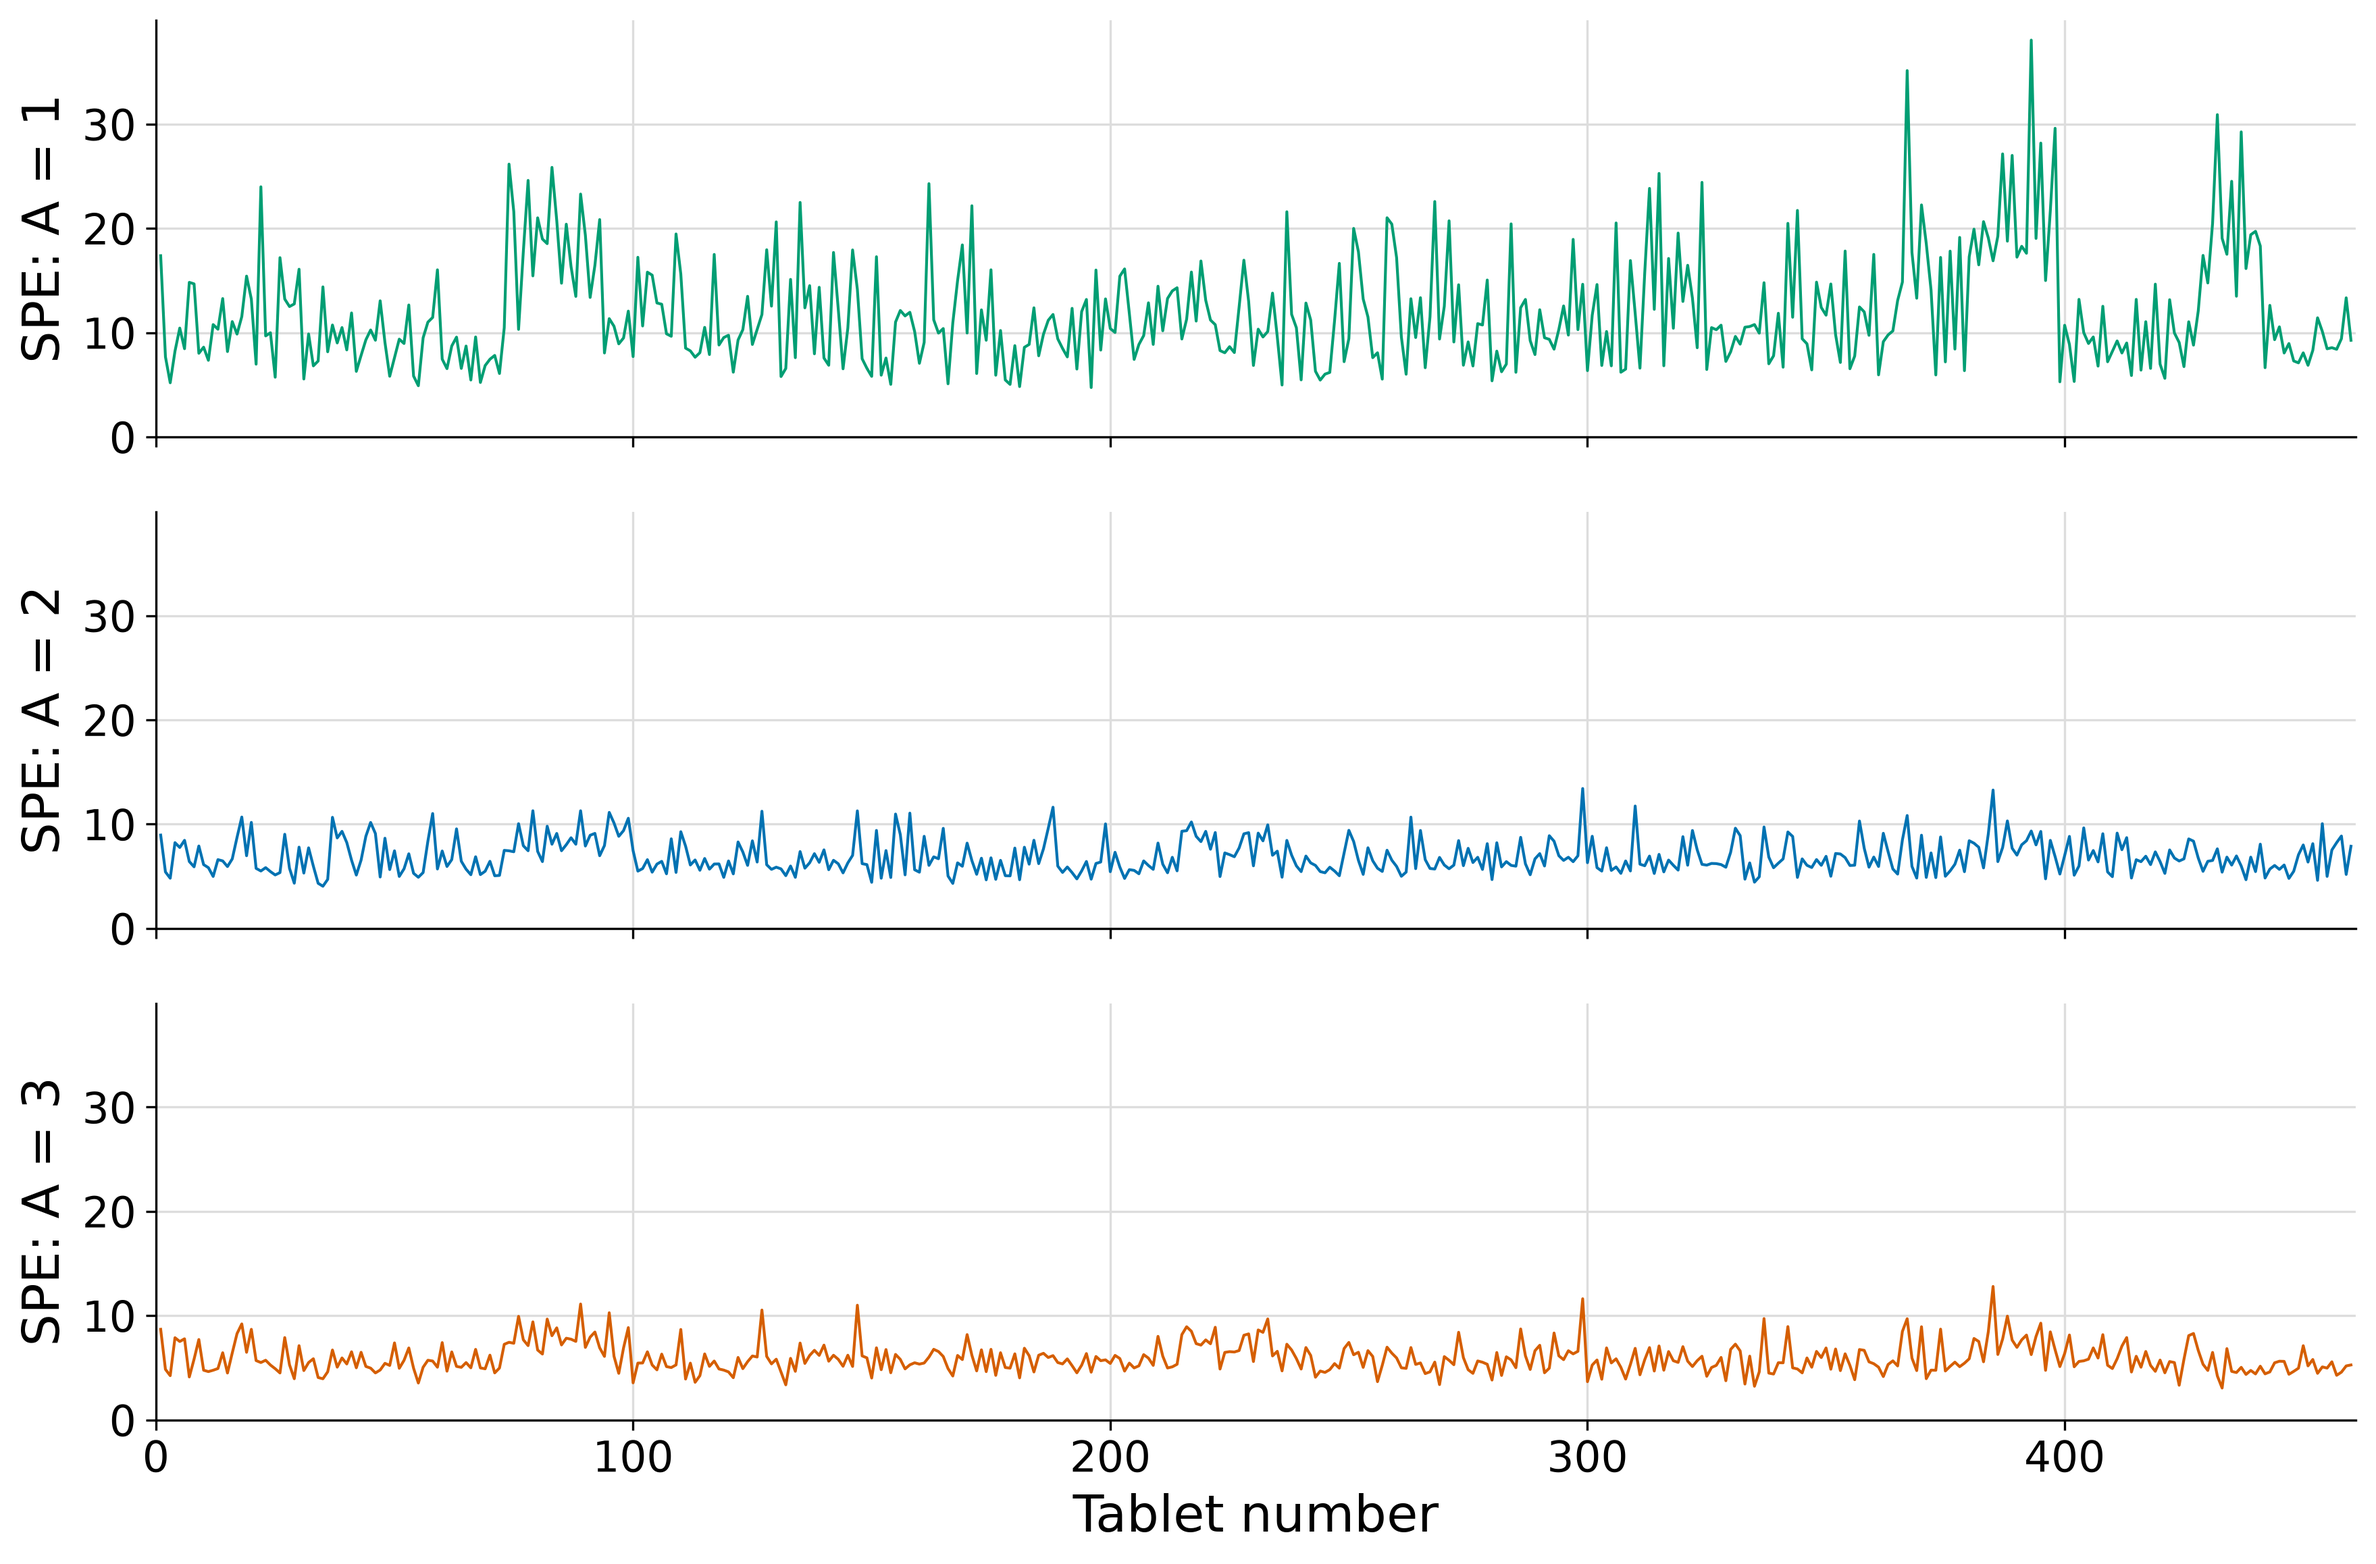
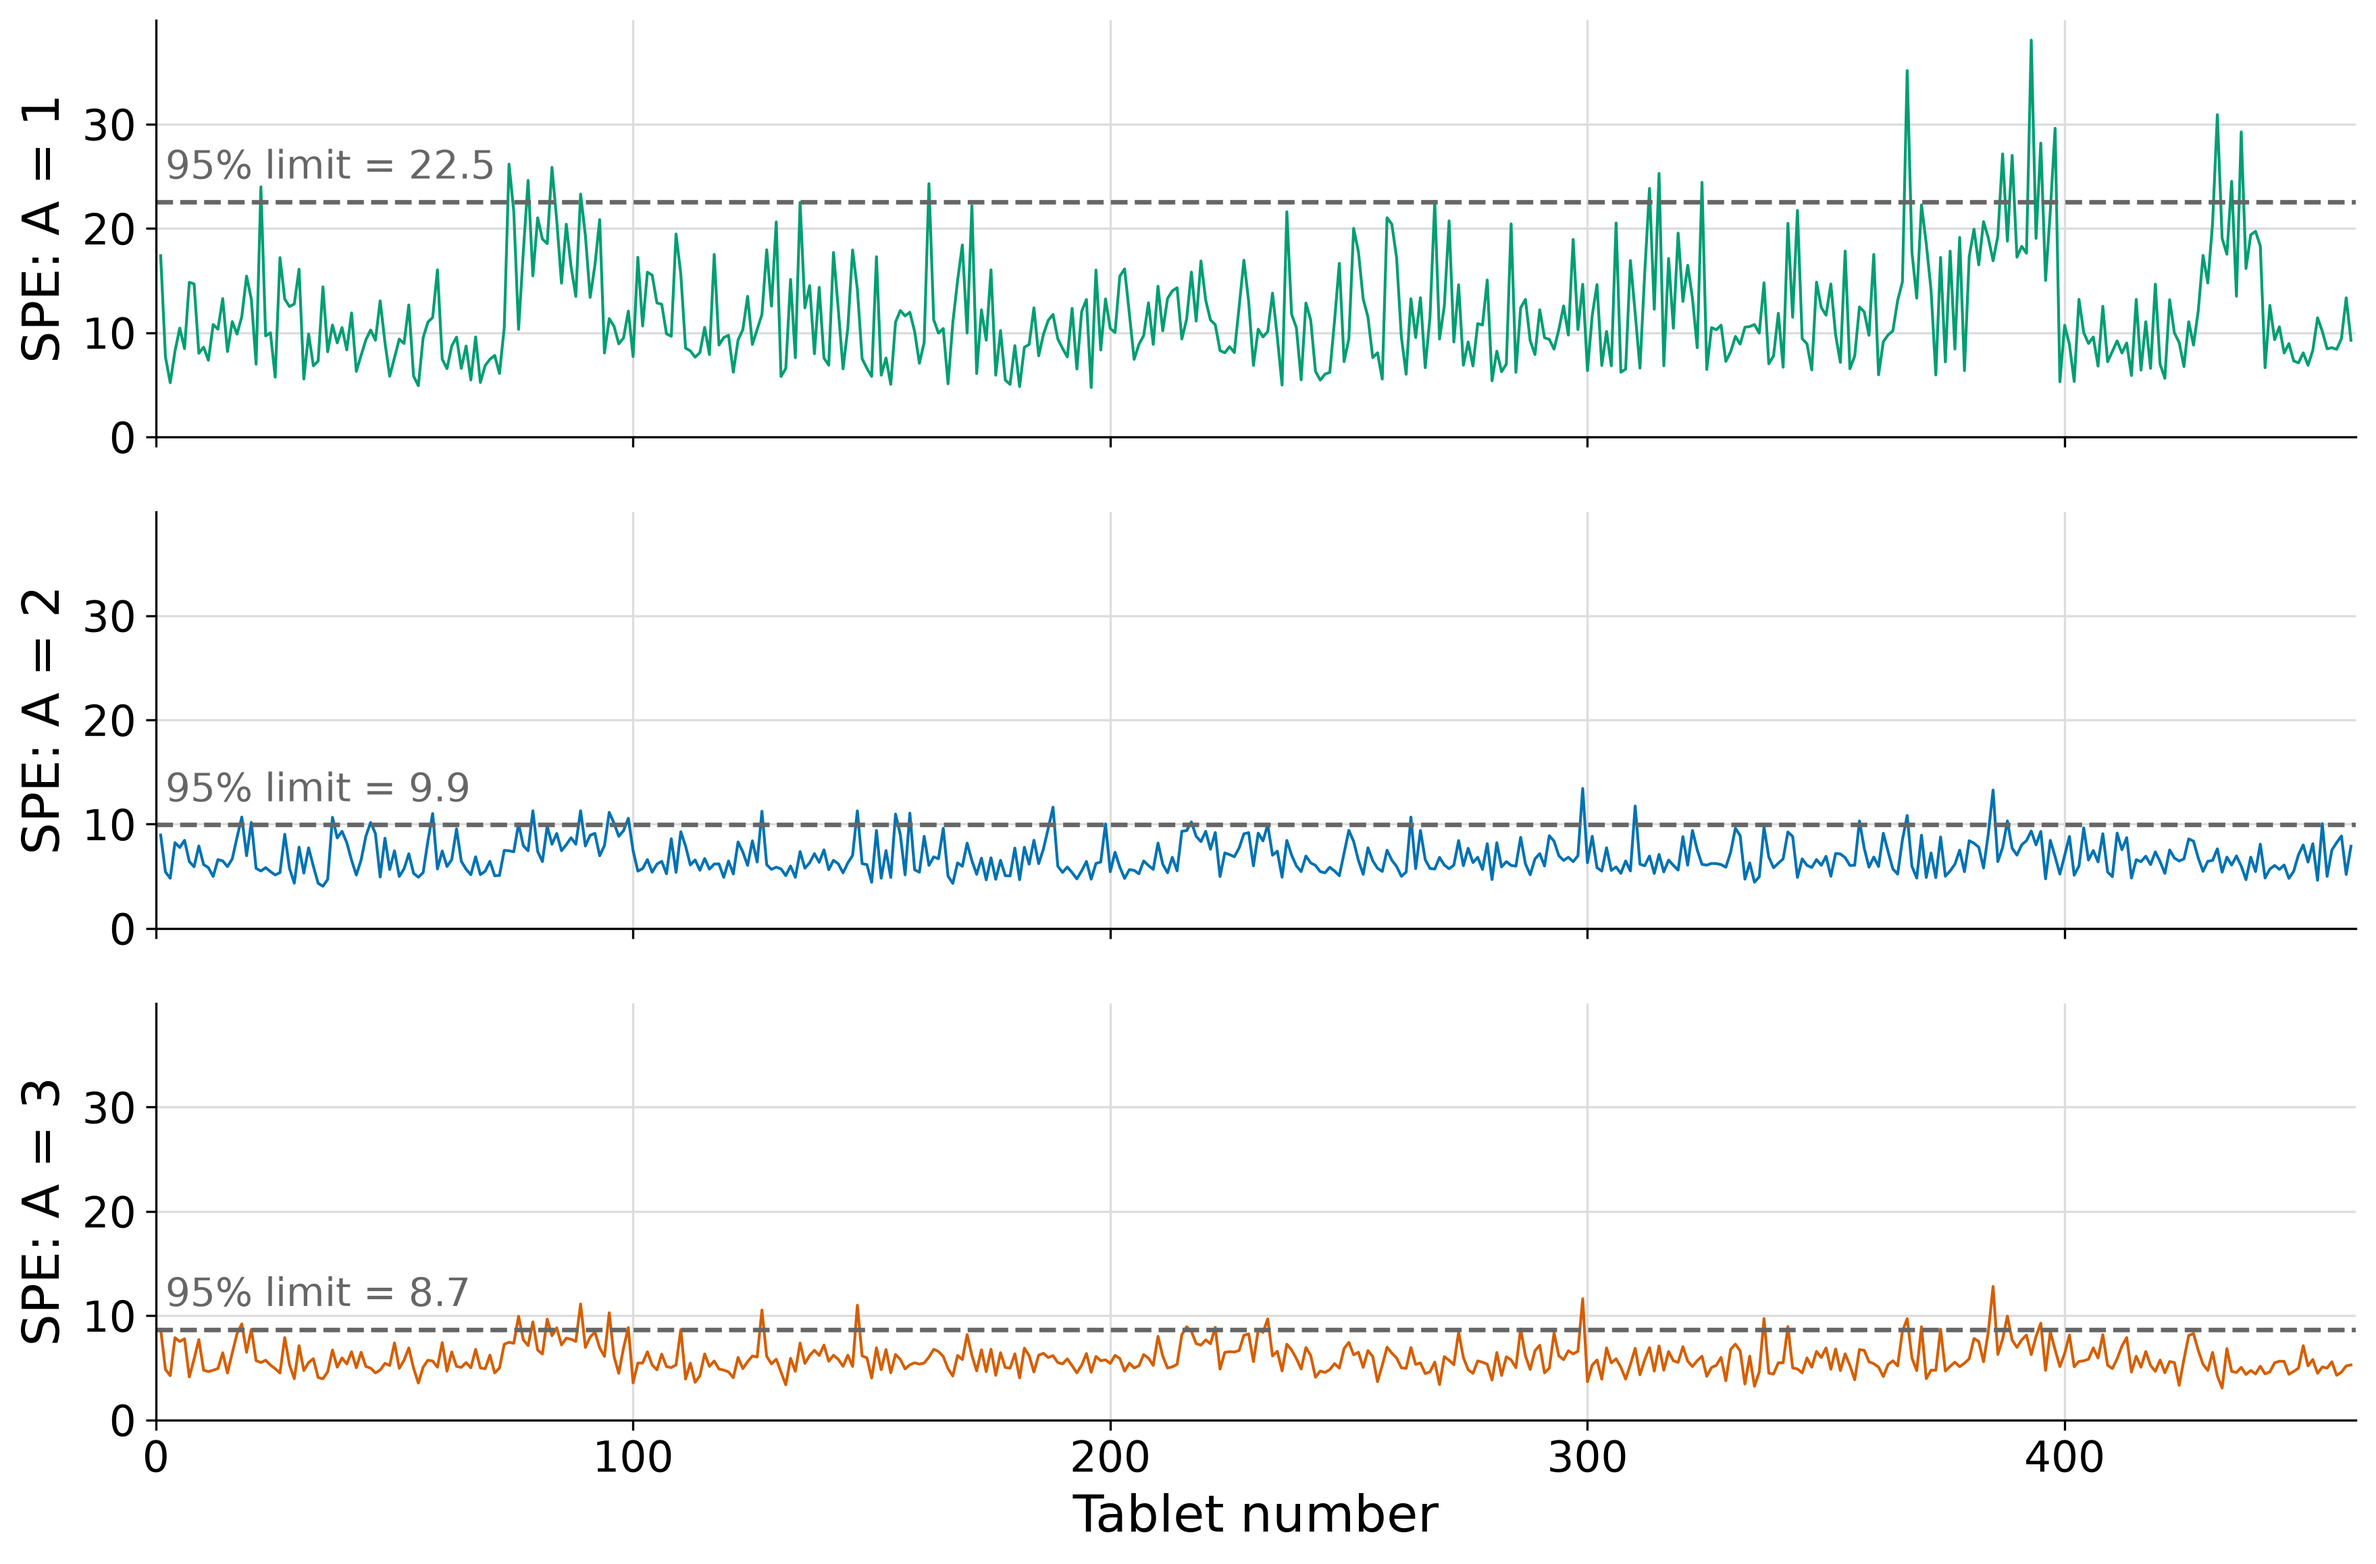
Draw a 95% SPE limit on each tablet-spectra residual panel
The three SPE panels gave the residual distance of every tablet but no
limit to read it against, so a reader could see that the trace drops as
components are added without being able to say which tablets are unusual
at any given model size. The neighbouring T-squared plot already carried
its two limits.

Each panel now carries its own 95% limit, computed from the SPE values
for that number of components by the moment-matched scaled chi-squared of
Nomikos and MacGregor: g * chi2(h) fitted to the mean and variance of the
sums of squares. That is the calculation process_improve uses in
multivariate/_limits.py, repeated here so the script needs only numpy and
scipy. The values are squared going in and the limit square-rooted coming
out, because this figure plots the residual distance rather than the sum
of squares.

The limits and the counts above them are printed when the script runs:
22.53 with 19 of 460 tablets above it at one component, 9.94 with 26 at
two, 8.67 with 26 at three.

Claude-Session: https://claude.ai/code/session_01D58KmvE1L75DDE7pqfJPeL

Changed region(s): [[0.062, 0.4974, 0.2169, 0.5285], [0.062, 0.0933, 0.2169, 0.1244], [0.062, 0.8083, 0.1859, 0.8394]]

diff --git a/examples/tablet-spectra/tablet_spectra_pca_figures.py b/examples/tablet-spectra/tablet_spectra_pca_figures.py
@@ -39,6 +39,10 @@ Defects in the originals corrected here:
 - The score plot's ellipses were drawn dotted in red and green, a pairing
   that is hard to tell apart for a colourblind reader; they are now
   distinguished by colour and dash pattern from a colourblind-safe pair.
+- The three SPE panels had no limit drawn on them, so there was nothing to
+  read a tablet's residual distance against, even though the neighbouring
+  T-squared plot carried two limits. Each panel now shows its own 95%
+  limit, computed from the SPE values for that number of components.
 
 Usage
 -----
@@ -156,12 +160,42 @@ def r2_per_wavelength(r2: dict, outdir: pathlib.Path) -> None:
     save(fig, outdir, "spectral-data-R2-per-variable.png")
 
 
+def spe_limit(distances: np.ndarray, confidence: float = 0.95) -> float:
+    """Confidence limit on the residual distance, as a distance.
+
+    The sum of squared residuals of a row is not chi-squared distributed,
+    because the residuals are neither independent nor of equal variance.
+    Nomikos and MacGregor (1995) match a scaled chi-squared, g * chi2(h),
+    to the mean and variance of the observed sums of squares, and read the
+    limit off that. This is the calculation ``process_improve`` uses in
+    ``multivariate/_limits.py``; it is repeated here so the script needs
+    only numpy and scipy.
+
+    The input and the returned limit are distances (square roots), which is
+    what the rest of this script plots, so the values are squared going in
+    and the limit square-rooted coming out.
+    """
+    squared = np.asarray(distances, dtype=float) ** 2
+    centre = float(squared.mean())
+    variance = float(squared.var(ddof=1))
+    g = variance / (2 * centre)
+    h = 2 * centre**2 / variance
+    return float(np.sqrt(scipy.stats.chi2.ppf(confidence, h) * g))
+
+
 def spe_per_tablet(spe: dict, outdir: pathlib.Path) -> None:
     tablets = np.arange(1, len(spe[1]) + 1)
     fig, axes = plt.subplots(3, 1, figsize=(12, 8), sharex=True)
     for ax, a in zip(axes, COMPONENTS):
+        limit = spe_limit(spe[a])
+        above = int((spe[a] > limit).sum())
+        print(f"A = {a}: 95% SPE limit {limit:.2f}, {above} of {len(tablets)} tablets above it")
         ax.grid(color=GRID, linewidth=0.8)
         ax.plot(tablets, spe[a], color=COLOURS[a], linewidth=1.0)
+        ax.axhline(limit, color=GREY, linestyle="--", linewidth=1.6)
+        ax.annotate(f"95% limit = {limit:.1f}", (2, limit),
+                    xytext=(0, 5), textcoords="offset points", ha="left",
+                    va="bottom", color=GREY, fontsize=14)
         ax.set_ylabel(f"SPE: A = {a}")
         ax.set_ylim(0, spe[1].max() * 1.05)
     axes[-1].set_xlabel("Tablet number")
